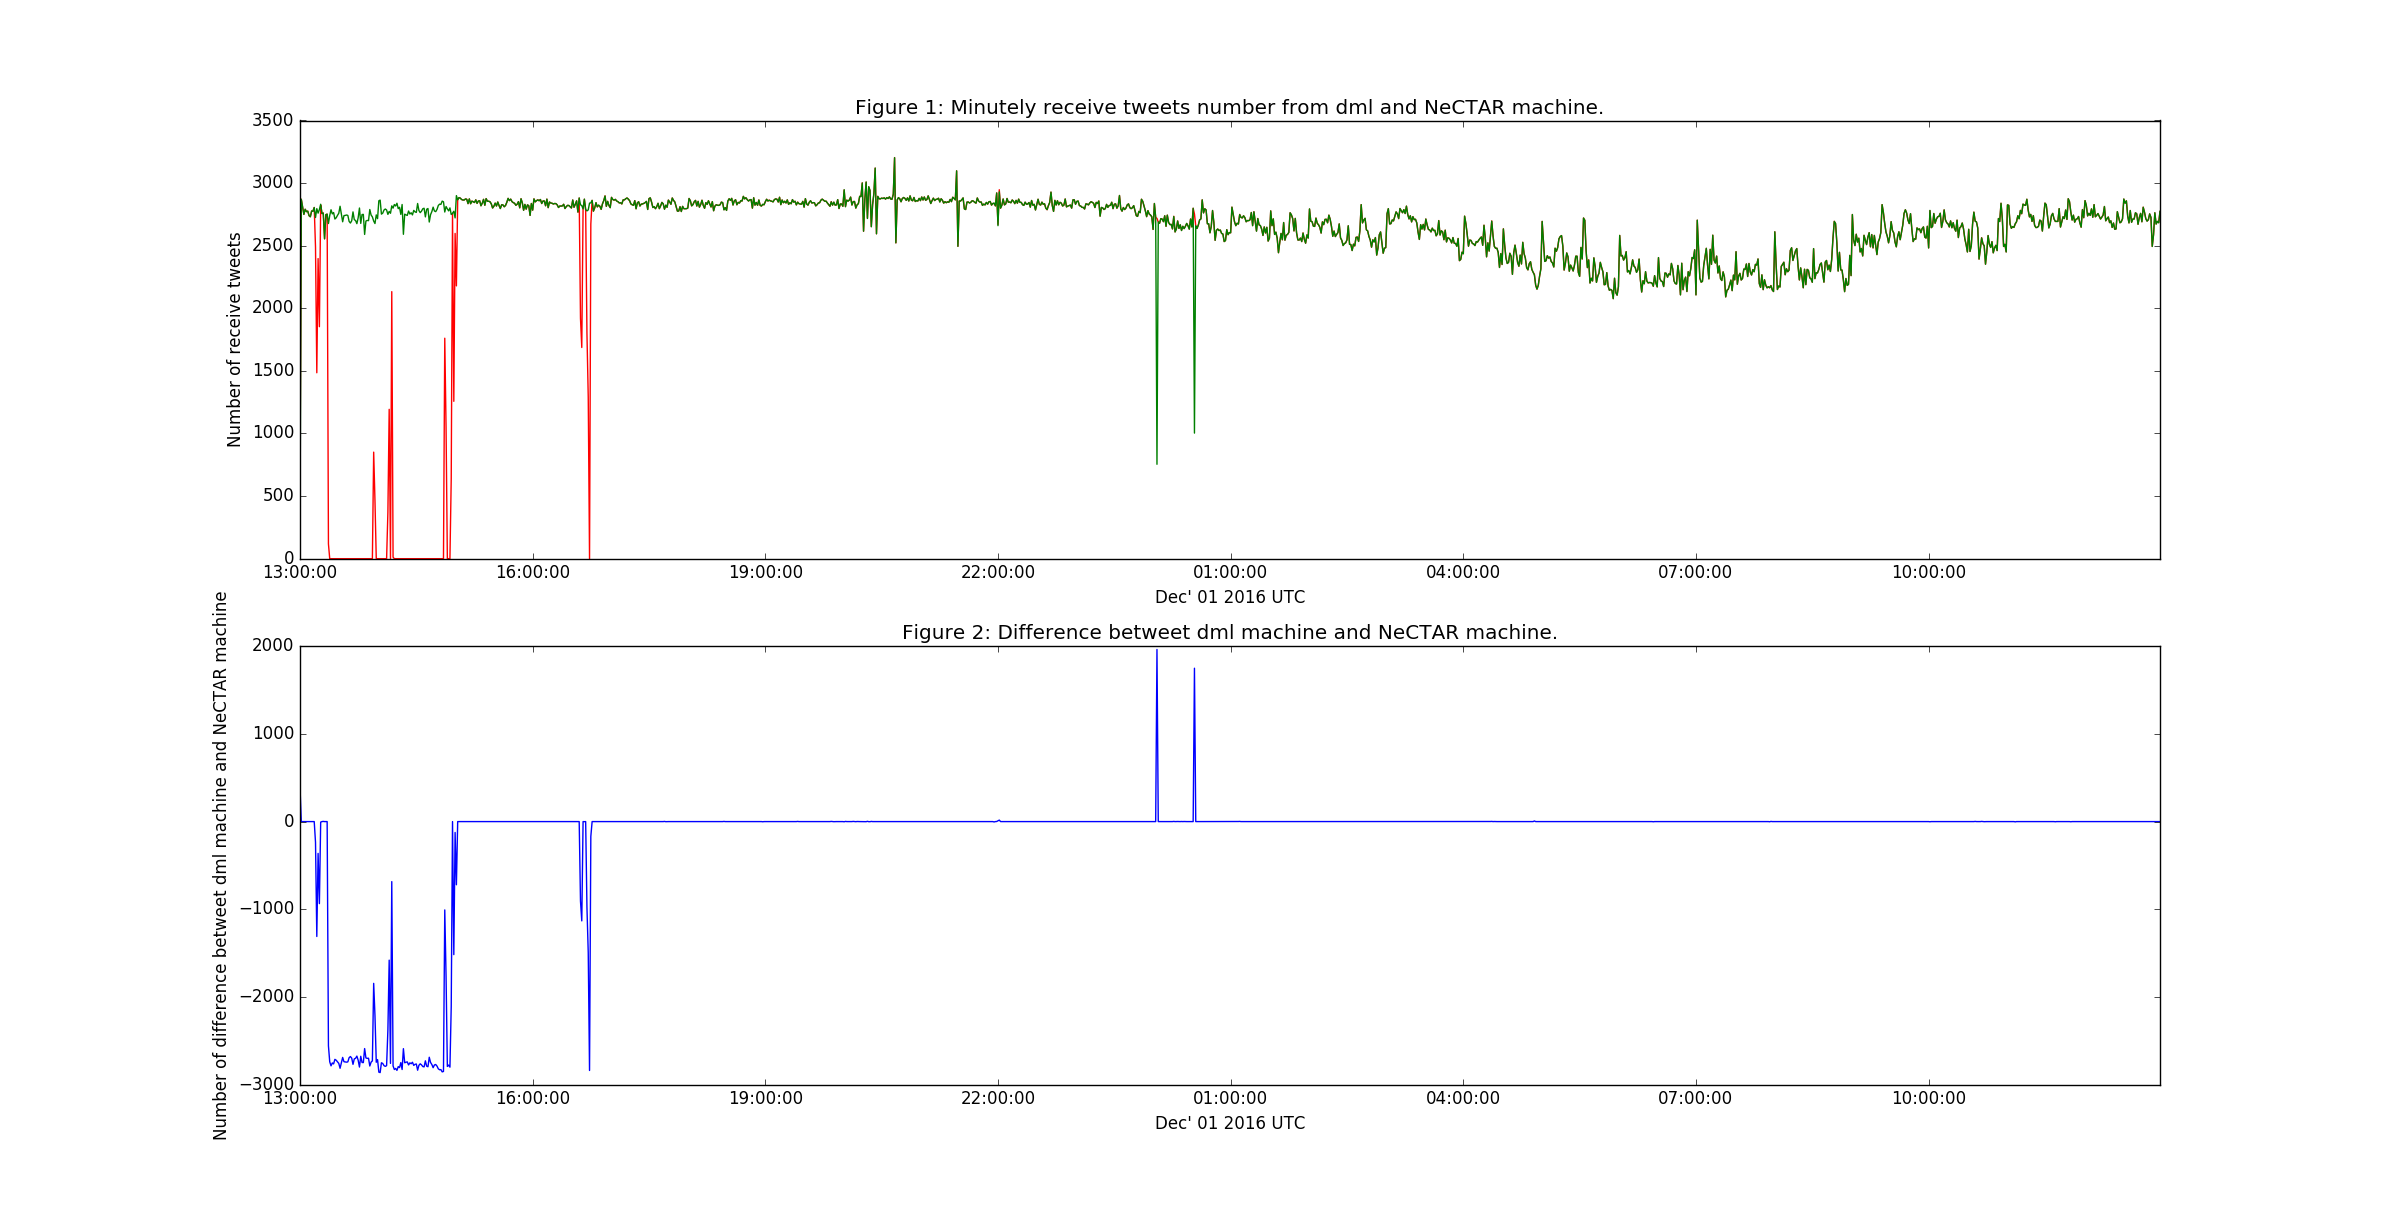
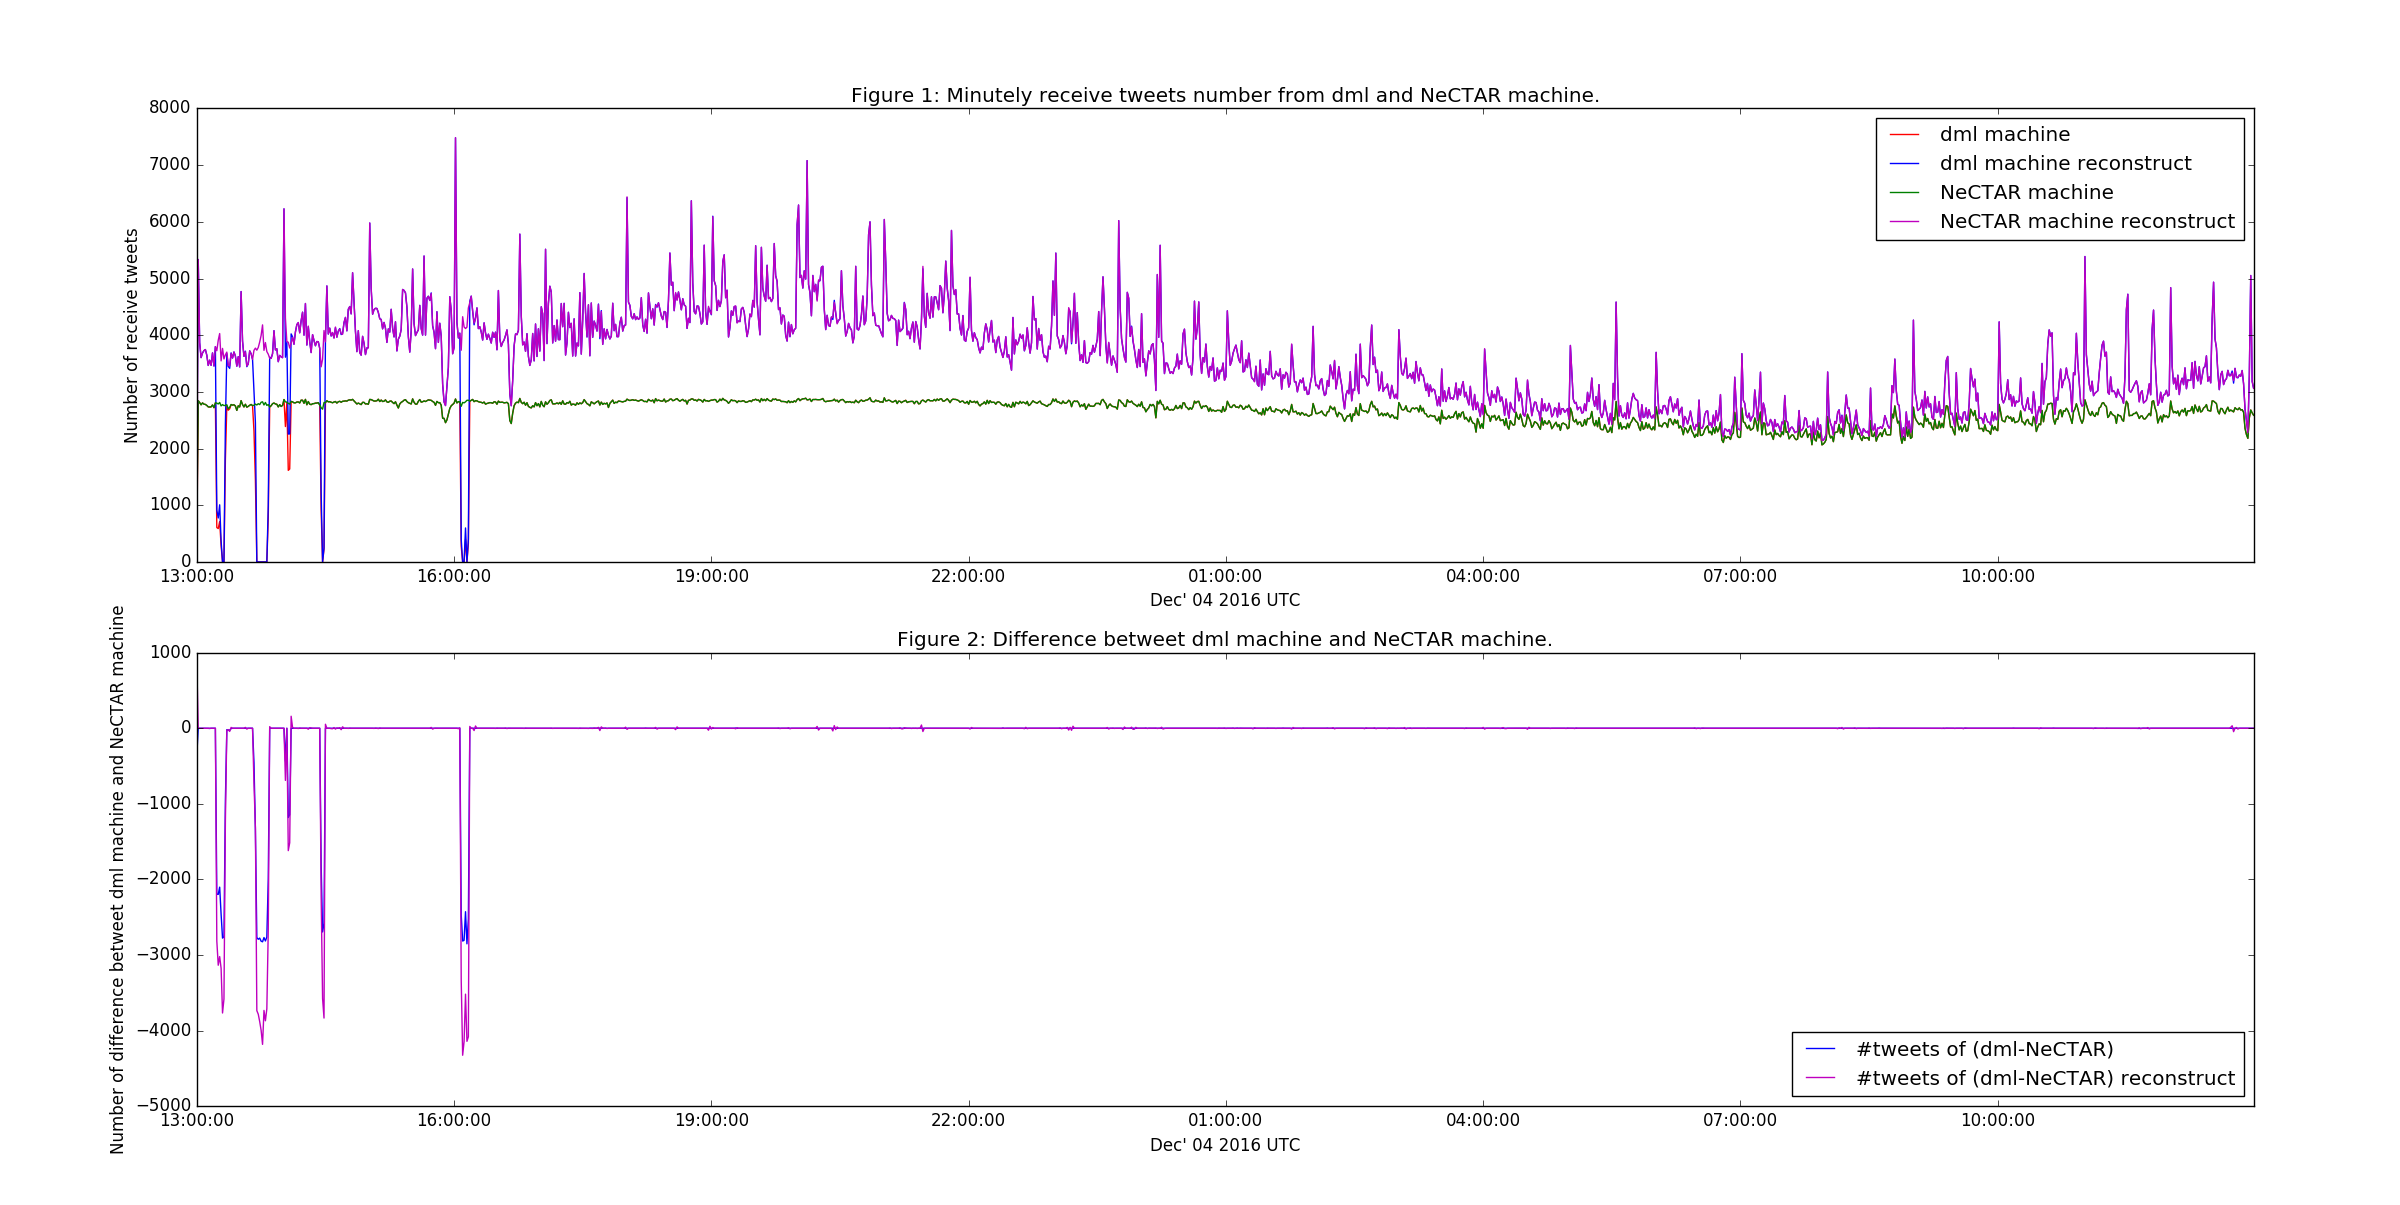
update dml nectar cmp with reconstruct tweets number

diff --git a/plot/plot_cmp_dml_nectar_tweet_rate.py b/plot/plot_cmp_dml_nectar_tweet_rate.py
@@ -1,11 +1,9 @@
 import os
-from datetime import datetime
+from datetime import datetime, timedelta
 import json
 import re
 from collections import defaultdict
 import matplotlib.pyplot as plt
-import matplotlib.dates as mdate
-import dill
 import bz2
 
 
@@ -34,6 +32,10 @@ def extract_vid(tweet):
 
 def get_tweet_rate(path):
     tweet_dict = defaultdict(int)
+    rate_dict = defaultdict(int)
+    prev_ts = ''
+    prev_rates = []
+    curr_rates = []
     with bz2.BZ2File(path, mode='r') as data:
         for line in data:
             if line.rstrip():
@@ -44,39 +46,92 @@ def get_tweet_rate(path):
                     dt_minute = datetime(dt.year, dt.month, dt.day, dt.hour, dt.minute)
                     timestamp = (dt_minute - datetime(1970, 1, 1)).total_seconds() + 60
                     tweet_dict[timestamp] += 1
-    return tweet_dict
+                else:
+                    timestamp = int(round(1.0*int(res['limit']['timestamp_ms'])/1000))
+                    rate = int(res['limit']['track'])
+                    dt = datetime.utcfromtimestamp(timestamp)
+                    dt_minute = datetime(dt.year, dt.month, dt.day, dt.hour, dt.minute)
+                    timestamp_minute = (dt_minute - datetime(1970, 1, 1)).total_seconds() + 60
+                    if not timestamp == prev_ts:
+                        if len(curr_rates) == 0:
+                            curr_rates.append(rate)
+                        elif len(prev_rates) == 0:
+                            prev_rates = curr_rates
+                            curr_rates = []
+                        else:
+                            prev_rates = sorted(prev_rates, reverse=True)
+                            curr_rates = sorted(curr_rates, reverse=True)
+                            # each element in curr_rates should be larger than respective prev_rates element
+                            for i in xrange(4):
+                                if i >= len(curr_rates) or i >= len(prev_rates):
+                                    break
+                                if curr_rates[i] <= prev_rates[i]:
+                                    curr_rates.insert(i, prev_rates[i])
+                            # fulfill prev_rates
+                            m = len(prev_rates)
+                            n = len(curr_rates)
+                            if m < n:
+                                prev_rates.extend(curr_rates[m-n:])
+                            elif m > n:
+                                curr_rates.extend(prev_rates[n-m:])
+                            diff = sum(curr_rates) - sum(prev_rates)
+                            if diff < 0:
+                                rate_dict[timestamp_minute] += 0
+                                prev_rates = [0, 0, 0, 0]
+                            else:
+                                rate_dict[timestamp_minute] += diff
+                                prev_rates = curr_rates
+                            curr_rates = []
+                    else:
+                        curr_rates.append(rate)
+                    prev_ts = timestamp
+    return tweet_dict, rate_dict
 
 
 if __name__ == '__main__':
     file_loc = '../../data/twitter-sampling'
-    filename1 = '2016-12-01.bz2'
-    filename2 = 'nectar.bz2'
+    date = '2016-12-02'
+    filename1 = '{0}.bz2'.format(date)
+    filename2 = 'nectar_{0}.bz2'.format(date)
+    # filename1 = 'dml_sample_tweets.bz2'
+    # filename2 = 'nectar_sample_tweets.bz2'
     filepath1 = os.path.join(file_loc, filename1)
     filepath2 = os.path.join(file_loc, filename2)
 
     fig, (ax1, ax2) = plt.subplots(2, 1)
 
-    tweet_dict1 = get_tweet_rate(filepath1)
-    tweet_dict2 = get_tweet_rate(filepath2)
+    tweet_dict1, rate_dict1 = get_tweet_rate(filepath1)
+    tweet_dict2, rate_dict2 = get_tweet_rate(filepath2)
 
-    start_timestamp = (datetime(2016, 11, 30, 13, 0, 0) - datetime(1970, 1, 1)).total_seconds()
+    start_timestamp = (datetime(*map(int, date.split('-'))) - timedelta(hours=11) - datetime(1970, 1, 1)).total_seconds()
     timestamp_axis = [start_timestamp + i*60 for i in xrange(24 * 60)]
     dml_axis = [tweet_dict1[ts] if ts in tweet_dict1 else 0 for ts in timestamp_axis]
+    dml_rate_axis = [rate_dict1[ts] if ts in rate_dict1 else 0 for ts in timestamp_axis]
+    dml_reconstruct_axis = [dml_axis[i]+dml_rate_axis[i] for i in xrange(len(timestamp_axis))]
     nectar_axis = [tweet_dict2[ts] if ts in tweet_dict2 else 0 for ts in timestamp_axis]
+    nectar_rate_axis = [rate_dict2[ts] if ts in rate_dict2 else 0 for ts in timestamp_axis]
+    nectar_reconstruct_axis = [nectar_axis[i]+nectar_rate_axis[i] for i in xrange(len(timestamp_axis))]
 
     diff_axis = [dml_axis[i] - nectar_axis[i] for i in xrange(len(timestamp_axis))]
+    diff_reconstruct_axis = [dml_reconstruct_axis[i] - nectar_reconstruct_axis[i] for i in xrange(len(timestamp_axis))]
     datetime_axis = [datetime.utcfromtimestamp(ts) for ts in timestamp_axis]
 
     ax1.plot_date(datetime_axis, dml_axis, '-', ms=2, color='r', label='dml machine')
+    ax1.plot_date(datetime_axis, dml_reconstruct_axis, '-', ms=2, color='b', label='dml machine reconstruct')
     ax1.plot_date(datetime_axis, nectar_axis, '-', ms=2, color='g', label='NeCTAR machine')
+    ax1.plot_date(datetime_axis, nectar_reconstruct_axis, '-', ms=2, color='m', label='NeCTAR machine reconstruct')
 
-    ax1.set_xlabel('Dec\' 01 2016 UTC')
+    ax1.set_xlabel('Dec\' 02 2016 UTC')
     ax1.set_ylabel('Number of receive tweets')
-    ax1.set_title('Figure 1: Minutely receive tweets number from dml and NeCTAR machine.')
+    ax1.set_title('Figure 1: Minutely receive/reconstruct tweets number from dml and NeCTAR machine.')
 
     ax2.plot_date(datetime_axis, diff_axis, '-', ms=2, color='b', label='#tweets of (dml-NeCTAR)')
-    ax2.set_xlabel('Dec\' 01 2016 UTC')
+    ax2.plot_date(datetime_axis, diff_reconstruct_axis, '-', ms=2, color='m', label='#tweets of (dml-NeCTAR) reconstruct')
+    ax2.set_xlabel('Dec\' 02 2016 UTC')
     ax2.set_ylabel('Number of difference betweet dml machine and NeCTAR machine')
     ax2.set_title('Figure 2: Difference betweet dml machine and NeCTAR machine.')
+
+    ax1.legend(loc='upper right')
+    ax2.legend(loc='lower right')
 
     plt.show()
